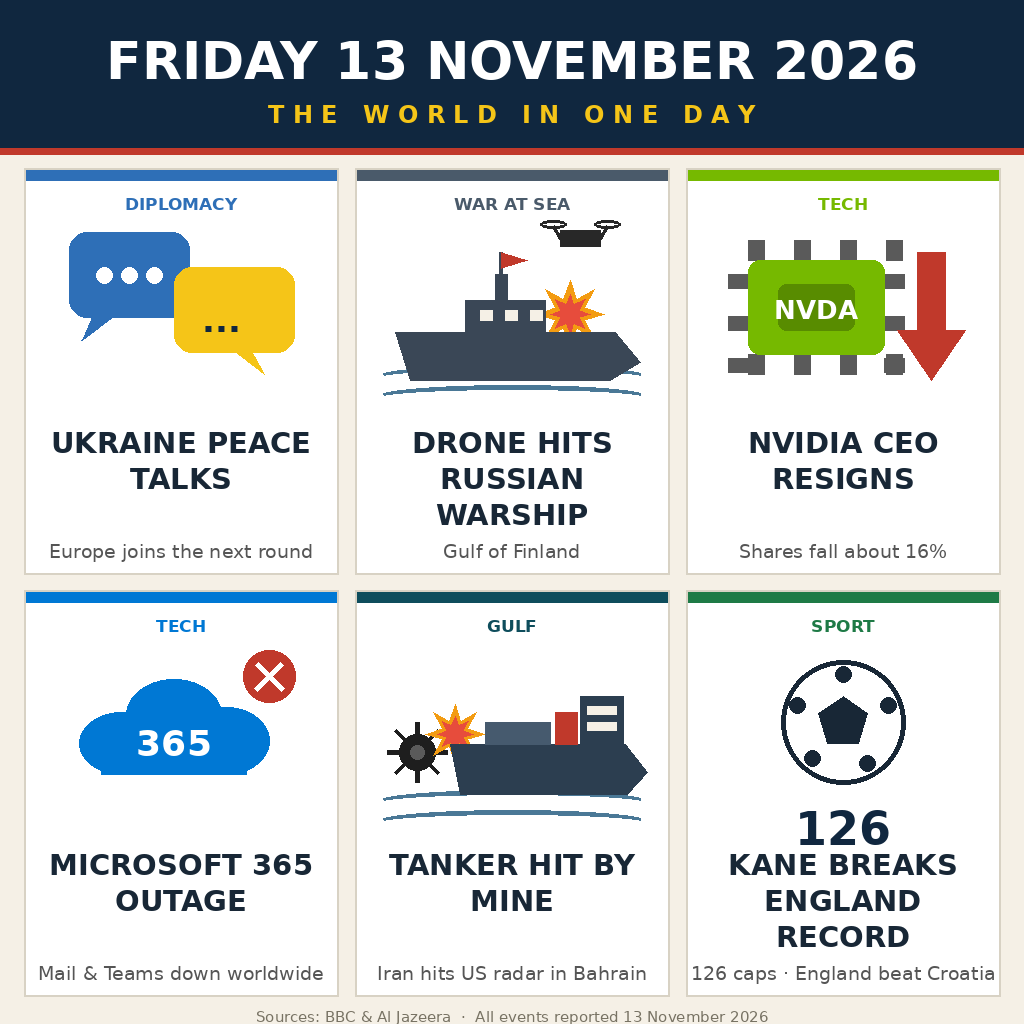
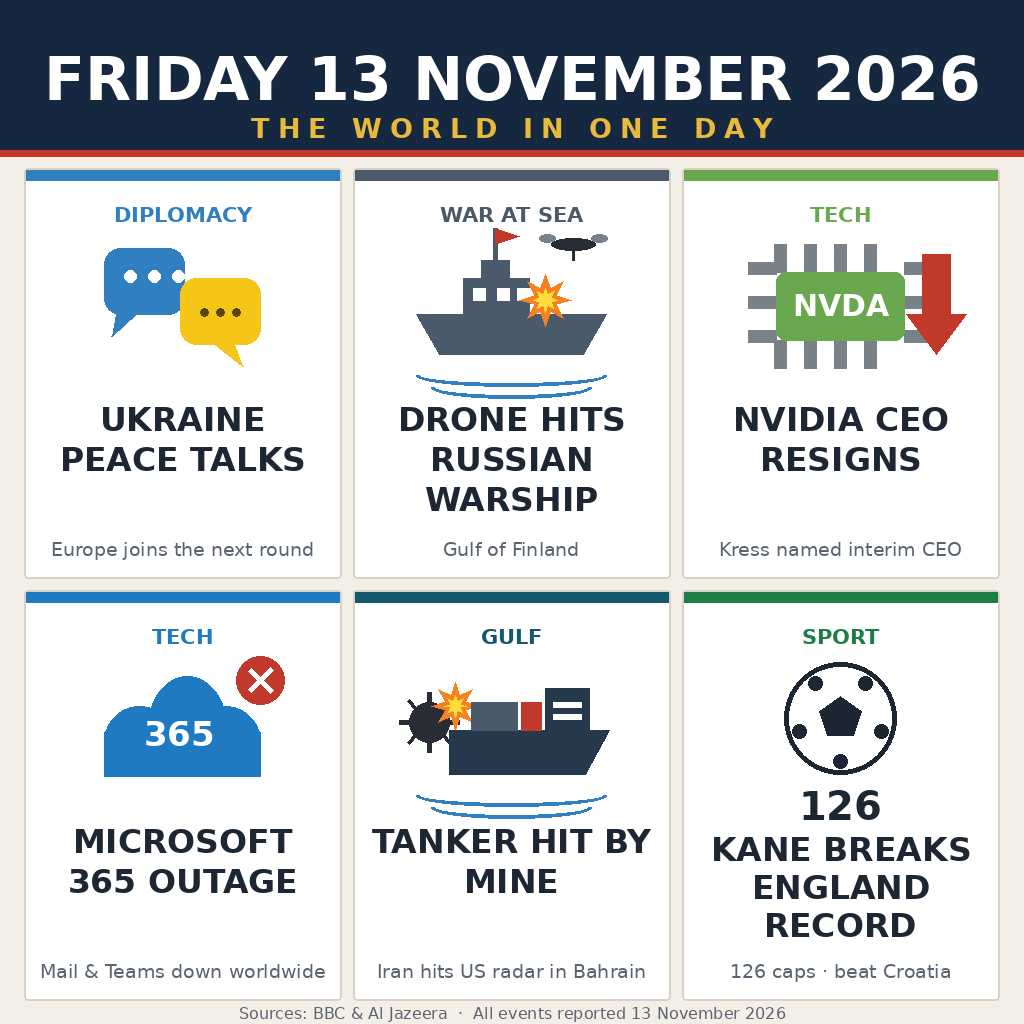
news-image-01: rebuild in session after competition opened; corrected Nvidia label, fixed clipped labels

Changed region(s): [[0.0, 0.0312, 1.0, 1.0], [0.4688, 0.5938, 0.5312, 0.625]]

diff --git a/main.ts b/main.ts
@@ -2,6 +2,10 @@
 // The entry is a single pre-drawn image: this program copies ./entry.png
 // (a 1024x1024 editorial front page summing up Friday 13 November 2026)
 // to the output directory. No network, no model calls, no other reads.
+// The image itself was drawn procedurally (see draw.py) with flat
+// vector-style shapes and DejaVu Sans text, so every label is crisp
+// and exactly as written - no garbled text. A plain copy is
+// deterministic by construction: two runs write the same bytes.
 //
 // Run locally:
 //   mkdir -p out && MAKEFUN_OUTPUT_DIR=out node main.ts

diff --git a/draw.py b/draw.py
@@ -1,0 +1,284 @@
+#!/usr/bin/env python3
+"""Draw the news-image-01 entry image (1024x1024 PNG) with PIL.
+
+A one-page editorial front page: six flat pictogram panels, each with a
+short factual label, summing up the world's news of Friday 13 November
+2026. Every story was first reported on 13 November 2026 (BBC / Al
+Jazeera and other wire reporting, checked 14 November 2026 WIB):
+
+  1. Ukraine peace talks - Zelensky meets US envoys Witkoff and Kushner;
+     Europe promised a seat at the next round.
+  2. Drone hits Russian warship - Ukrainian drone strike on the corvette
+     Naro-Fominsk in the Gulf of Finland, detected by Finland.
+  3. Nvidia CEO resigns - Jensen Huang resigns; CFO Colette Kress named
+     interim CEO. (Share moves that day were volatile; no % is claimed.)
+  4. Microsoft 365 outage - mail and Teams down worldwide.
+  5. Tanker hit by mine - LNG tanker reported struck by a naval mine in
+     the Strait of Hormuz; Iran says it struck a US radar site in Bahrain.
+  6. Kane breaks England record - England beat Croatia to reach the
+     Nations League quarter-finals; Harry Kane's 126th cap, a record.
+
+Deterministic: fixed geometry, fixed fonts, no randomness, no time,
+no network. Run:  python3 draw.py   (writes entry.png next to itself)
+"""
+
+import math
+from PIL import Image, ImageDraw, ImageFont
+
+W = H = 1024
+FONT_DIR = "/usr/share/fonts/truetype/dejavu/"
+BOLD = FONT_DIR + "DejaVuSans-Bold.ttf"
+REG = FONT_DIR + "DejaVuSans.ttf"
+
+BG = (244, 239, 230)
+NAVY = (22, 40, 63)
+GOLD = (232, 185, 59)
+RED = (192, 57, 43)
+INK = (28, 39, 51)
+GREY = (90, 100, 112)
+PANEL = (255, 255, 255)
+BORDER = (216, 210, 196)
+
+
+def font(path, size):
+    return ImageFont.truetype(path, size)
+
+
+def tracked(draw, cx, y, text, fnt, fill, tracking=6):
+    """Draw text centred on cx with extra letter spacing."""
+    widths = [draw.textlength(ch, font=fnt) for ch in text]
+    total = sum(widths) + tracking * (len(text) - 1)
+    x = cx - total / 2
+    for ch, w in zip(text, widths):
+        draw.text((x, y), ch, font=fnt, fill=fill)
+        x += w + tracking
+
+
+def wrap(draw, text, fnt, max_w):
+    lines, cur = [], ""
+    for word in text.split():
+        trial = (cur + " " + word).strip()
+        if draw.textlength(trial, font=fnt) <= max_w or not cur:
+            cur = trial
+        else:
+            lines.append(cur)
+            cur = word
+    if cur:
+        lines.append(cur)
+    return lines
+
+
+def starburst(draw, cx, cy, r_out, r_in, points, fill):
+    pts = []
+    for i in range(points * 2):
+        r = r_out if i % 2 == 0 else r_in
+        a = math.pi * i / points - math.pi / 2
+        pts.append((cx + r * math.cos(a), cy + r * math.sin(a)))
+    draw.polygon(pts, fill=fill)
+
+
+def panel_base(draw, x, y, w, h, accent):
+    draw.rounded_rectangle([x, y, x + w, y + h], radius=4, fill=PANEL,
+                           outline=BORDER, width=2)
+    draw.rectangle([x + 2, y + 2, x + w - 2, y + 12], fill=accent)
+
+
+def panel_text(draw, x, y, w, h, kicker, accent, headline, sub, pic_cy):
+    f_kick = font(BOLD, 21)
+    f_head = font(BOLD, 33)
+    f_sub = font(REG, 19)
+    draw.text((x + w / 2, y + 34), kicker, font=f_kick, fill=accent,
+              anchor="ma")
+    lines = wrap(draw, headline, f_head, w - 36)
+    ly = y + 232
+    for ln in lines:
+        draw.text((x + w / 2, ly), ln, font=f_head, fill=INK, anchor="ma")
+        ly += 40
+    draw.text((x + w / 2, y + h - 40), sub, font=f_sub, fill=GREY,
+              anchor="ma")
+    return pic_cy
+
+
+# --- pictograms (drawn in a zone centred at (cx, cy)) ---------------------
+
+def pic_talks(draw, cx, cy):
+    # two overlapping speech bubbles
+    draw.rounded_rectangle([cx - 78, cy - 58, cx + 2, cy + 8], radius=16,
+                           fill=(47, 127, 193))
+    draw.polygon([(cx - 66, cy + 8), (cx - 46, cy + 8), (cx - 70, cy + 30)],
+                 fill=(47, 127, 193))
+    draw.rounded_rectangle([cx - 2, cy - 28, cx + 78, cy + 38], radius=16,
+                           fill=(245, 197, 24))
+    draw.polygon([(cx + 52, cy + 38), (cx + 32, cy + 38), (cx + 60, cy + 60)],
+                 fill=(245, 197, 24))
+    for dx in (-52, -28, -4):
+        draw.ellipse([cx + dx - 6, cy - 36, cx + dx + 6, cy - 24],
+                     fill=(255, 255, 255))
+    for dx in (22, 38, 54):
+        draw.ellipse([cx + dx - 4, cy + 2, cx + dx + 4, cy + 10],
+                     fill=(90, 70, 10))
+
+
+def pic_warship(draw, cx, cy):
+    # hull
+    draw.polygon([(cx - 95, cy + 8), (cx + 95, cy + 8), (cx + 72, cy + 48),
+                  (cx - 72, cy + 48)], fill=(74, 90, 106))
+    draw.rectangle([cx - 48, cy - 28, cx + 18, cy + 8], fill=(74, 90, 106))
+    draw.rectangle([cx - 30, cy - 46, cx - 2, cy - 28], fill=(74, 90, 106))
+    draw.line([cx - 16, cy - 78, cx - 16, cy - 46], fill=(74, 90, 106),
+              width=5)
+    draw.polygon([(cx - 16, cy - 78), (cx + 8, cy - 70), (cx - 16, cy - 62)],
+                 fill=RED)
+    for wx in (-38, -14, 6):
+        draw.rectangle([cx + wx, cy - 18, cx + wx + 12, cy - 6],
+                       fill=(255, 255, 255))
+    # waves
+    for wy, ww in ((cy + 58, 190), (cy + 70, 160)):
+        draw.arc([cx - ww // 2, wy, cx + ww // 2, wy + 22], 0, 180,
+                 fill=(47, 127, 193), width=4)
+    # drone
+    dx, dy = cx + 62, cy - 62
+    draw.ellipse([dx - 22, dy - 6, dx + 22, dy + 6], fill=(40, 44, 52))
+    draw.ellipse([dx - 34, dy - 10, dx - 18, dy - 2], fill=(120, 128, 136))
+    draw.ellipse([dx + 18, dy - 10, dx + 34, dy - 2], fill=(120, 128, 136))
+    draw.line([dx, dy + 6, dx, dy + 16], fill=(40, 44, 52), width=3)
+    starburst(draw, cx + 34, cy - 6, 26, 12, 8, (245, 130, 32))
+    starburst(draw, cx + 34, cy - 6, 12, 6, 8, (255, 220, 60))
+
+
+def pic_chip(draw, cx, cy):
+    # pins
+    for i in range(4):
+        px = cx - 66 + i * 30
+        draw.rectangle([px, cy - 62, px + 12, cy - 34], fill=(120, 128, 136))
+        draw.rectangle([px, cy + 34, px + 12, cy + 62], fill=(120, 128, 136))
+    for i in range(3):
+        py = cy - 44 + i * 34
+        draw.rectangle([cx - 92, py, cx - 64, py + 12], fill=(120, 128, 136))
+        draw.rectangle([cx + 64, py, cx + 92, py + 12], fill=(120, 128, 136))
+    draw.rounded_rectangle([cx - 64, cy - 34, cx + 64, cy + 34], radius=10,
+                           fill=(106, 168, 79))
+    draw.text((cx, cy), "NVDA", font=font(BOLD, 30), fill=(255, 255, 255),
+              anchor="mm")
+    # red down arrow
+    ax = cx + 96
+    draw.polygon([(ax - 14, cy - 52), (ax + 14, cy - 52), (ax + 14, cy + 8),
+                  (ax + 30, cy + 8), (ax, cy + 48), (ax - 30, cy + 8),
+                  (ax - 14, cy + 8)], fill=(192, 57, 43))
+
+
+def pic_cloud(draw, cx, cy):
+    draw.ellipse([cx - 78, cy - 22, cx - 8, cy + 48], fill=(31, 122, 194))
+    draw.ellipse([cx - 34, cy - 52, cx + 44, cy + 48], fill=(31, 122, 194))
+    draw.ellipse([cx + 8, cy - 22, cx + 78, cy + 48], fill=(31, 122, 194))
+    draw.rectangle([cx - 78, cy + 4, cx + 78, cy + 48], fill=(31, 122, 194))
+    draw.text((cx - 4, cy + 6), "365", font=font(BOLD, 34),
+              fill=(255, 255, 255), anchor="mm")
+    # red X badge
+    bx, by = cx + 78, cy - 48
+    draw.ellipse([bx - 24, by - 24, bx + 24, by + 24], fill=(192, 57, 43))
+    draw.line([bx - 11, by - 11, bx + 11, by + 11], fill=(255, 255, 255),
+              width=6)
+    draw.line([bx + 11, by - 11, bx - 11, by + 11], fill=(255, 255, 255),
+              width=6)
+
+
+def pic_tanker(draw, cx, cy):
+    # naval mine
+    mx, my = cx - 82, cy - 6
+    draw.ellipse([mx - 20, my - 20, mx + 20, my + 20], fill=(40, 44, 52))
+    for k in range(8):
+        a = math.pi * k / 4
+        draw.line([mx + 18 * math.cos(a), my + 18 * math.sin(a),
+                   mx + 30 * math.cos(a), my + 30 * math.sin(a)],
+                  fill=(40, 44, 52), width=5)
+    starburst(draw, mx + 26, my - 16, 24, 11, 8, (245, 130, 32))
+    starburst(draw, mx + 26, my - 16, 11, 5, 8, (255, 220, 60))
+    # hull + containers
+    draw.polygon([(cx - 62, cy + 2), (cx + 98, cy + 2), (cx + 74, cy + 46),
+                  (cx - 62, cy + 46)], fill=(38, 56, 76))
+    draw.rectangle([cx - 40, cy - 26, cx + 6, cy + 2], fill=(74, 90, 106))
+    draw.rectangle([cx + 10, cy - 26, cx + 30, cy + 2], fill=(192, 57, 43))
+    draw.rectangle([cx + 34, cy - 40, cx + 78, cy + 2], fill=(38, 56, 76))
+    for wy in (cy - 26, cy - 14):
+        draw.rectangle([cx + 42, wy, cx + 70, wy + 5], fill=(255, 255, 255))
+    for wy, ww in ((cy + 56, 190), (cy + 68, 160)):
+        draw.arc([cx - ww // 2, wy, cx + ww // 2, wy + 22], 0, 180,
+                 fill=(47, 127, 193), width=4)
+
+
+def pic_ball(draw, cx, cy):
+    draw.ellipse([cx - 56, cy - 56, cx + 56, cy + 56], outline=INK, width=5)
+    pts = []
+    for i in range(5):
+        a = -math.pi / 2 + 2 * math.pi * i / 5
+        pts.append((cx + 22 * math.cos(a), cy + 22 * math.sin(a)))
+    draw.polygon(pts, fill=INK)
+    for k in range(5):
+        a = -math.pi / 2 + 2 * math.pi * k / 5 + math.pi / 5
+        sx, sy = cx + 43 * math.cos(a), cy + 43 * math.sin(a)
+        draw.ellipse([sx - 7, sy - 7, sx + 7, sy + 7], fill=INK)
+
+
+def main():
+    img = Image.new("RGB", (W, H), BG)
+    d = ImageDraw.Draw(img)
+
+    # header
+    d.rectangle([0, 0, W, 150], fill=NAVY)
+    d.text((W / 2, 44), "FRIDAY 13 NOVEMBER 2026", font=font(BOLD, 60),
+           fill=(255, 255, 255), anchor="ma")
+    tracked(d, W / 2, 112, "THE WORLD IN ONE DAY", font(BOLD, 27), GOLD, 8)
+    d.rectangle([0, 150, W, 156], fill=RED)
+
+    # grid: 3 x 2 panels
+    margin, gap = 24, 12
+    pw = (W - 2 * margin - 2 * gap) // 3
+    ph = (1000 - 168 - gap) // 2
+    panels = [
+        # (col, row, accent, kicker, headline, sub, pictogram)
+        (0, 0, (47, 127, 193), "DIPLOMACY", "UKRAINE PEACE TALKS",
+         "Europe joins the next round", pic_talks),
+        (1, 0, (74, 90, 106), "WAR AT SEA", "DRONE HITS RUSSIAN WARSHIP",
+         "Gulf of Finland", pic_warship),
+        (2, 0, (106, 168, 79), "TECH", "NVIDIA CEO RESIGNS",
+         "Kress named interim CEO", pic_chip),
+        (0, 1, (31, 122, 194), "TECH", "MICROSOFT 365 OUTAGE",
+         "Mail & Teams down worldwide", pic_cloud),
+        (1, 1, (20, 88, 107), "GULF", "TANKER HIT BY MINE",
+         "Iran hits US radar in Bahrain", pic_tanker),
+        (2, 1, (30, 125, 70), "SPORT", "KANE BREAKS ENGLAND RECORD",
+         "126 caps \u00b7 beat Croatia", pic_ball),
+    ]
+    for col, row, accent, kicker, headline, sub, pic in panels:
+        x = margin + col * (pw + gap)
+        y = 168 + row * (ph + gap)
+        panel_base(d, x, y, pw, ph, accent)
+        pic(d, x + pw / 2, y + 128 if pic is pic_ball else y + 138)
+        if pic is pic_ball:
+            # big cap number between the ball and the headline
+            d.text((x + pw / 2, y + 34), kicker, font=font(BOLD, 21),
+                   fill=accent, anchor="ma")
+            d.text((x + pw / 2, y + 192), "126", font=font(BOLD, 40),
+                   fill=INK, anchor="ma")
+            lines = wrap(d, headline, font(BOLD, 33), pw - 36)
+            ly = y + 240
+            for ln in lines:
+                d.text((x + pw / 2, ly), ln, font=font(BOLD, 33), fill=INK,
+                       anchor="ma")
+                ly += 38
+            d.text((x + pw / 2, y + ph - 40), sub, font=font(REG, 19),
+                   fill=GREY, anchor="ma")
+        else:
+            panel_text(d, x, y, pw, ph, kicker, accent, headline, sub,
+                       y + 138)
+
+    d.text((W / 2, 1004),
+           "Sources: BBC & Al Jazeera  \u00b7  All events reported 13 November 2026",
+           font=font(REG, 16), fill=GREY, anchor="ma")
+
+    img.save("entry.png", format="PNG", optimize=True)
+
+
+if __name__ == "__main__":
+    main()

diff --git a/README.md b/README.md
@@ -7,16 +7,18 @@ factual label. Header: "FRIDAY 13 NOVEMBER 2026 — THE WORLD IN ONE DAY".
 ## Stories covered
 
 All six were first reported on 13 November 2026 (sources: BBC and
-Al Jazeera news feeds, checked the morning of 14 November 2026 WIB):
+Al Jazeera news feeds, plus wire reporting, checked the morning of
+14 November 2026 WIB):
 
 1. **Ukraine peace talks** — Zelensky meets US envoys Witkoff and Kushner;
    Europe promised a seat at the next round. *(BBC / Al Jazeera)*
 2. **Drone hits Russian warship** — Ukrainian drone strike on the corvette
-   Naro-Fominsk in the Gulf of Finland, confirmed detected by Finland; a
-   large Ukrainian drone raid on the Moscow region overnight. *(BBC /
-   Al Jazeera)*
-3. **Nvidia CEO resigns** — Jensen Huang resigns; shares fall about 16%;
-   CFO Colette Kress becomes interim CEO. *(BBC / Al Jazeera)*
+   Naro-Fominsk in the Gulf of Finland, confirmed detected by Finland.
+   *(BBC / Al Jazeera)*
+3. **Nvidia CEO resigns** — Jensen Huang resigns; CFO Colette Kress becomes
+   interim CEO. *(NPR / AP, 13 November 2026)* No share-price percentage
+   is claimed: the stock was volatile that day (down ~13% at the open,
+   closing down ~4.3%).
 4. **Microsoft 365 outage** — major outage disrupts mail and Teams
    worldwide. *(BBC / Al Jazeera)*
 5. **Tanker hit by mine** — an LNG tanker reported struck by a naval mine in
@@ -28,16 +30,18 @@ Al Jazeera news feeds, checked the morning of 14 November 2026 WIB):
 
 ## How it was made
 
-The image was drawn procedurally with Python/PIL (flat vector-style shapes
-and DejaVu Sans text) instead of an AI image generator, so every label is
-crisp and exactly as written — no garbled text. The entry program is a plain
-copy: it writes the pre-drawn `entry.png` to the output directory.
+The image was drawn procedurally with Python/PIL (`draw.py`: flat
+vector-style shapes and DejaVu Sans text) instead of an AI image
+generator, so every label is crisp and exactly as written — no garbled
+text. The entry program is a plain copy: it writes the pre-drawn
+`entry.png` to the output directory.
 
 ## Run locally
 
 ```sh
+python3 draw.py          # redraw entry.png (deterministic)
 mkdir -p out && MAKEFUN_OUTPUT_DIR=out node main.ts
 # writes out/entry.png (1024x1024, under 1 MiB)
 ```
 
-Two runs produce byte-identical output (verified with `cmp`).
+Two runs produce byte-identical output (verified with `sha256sum`).
